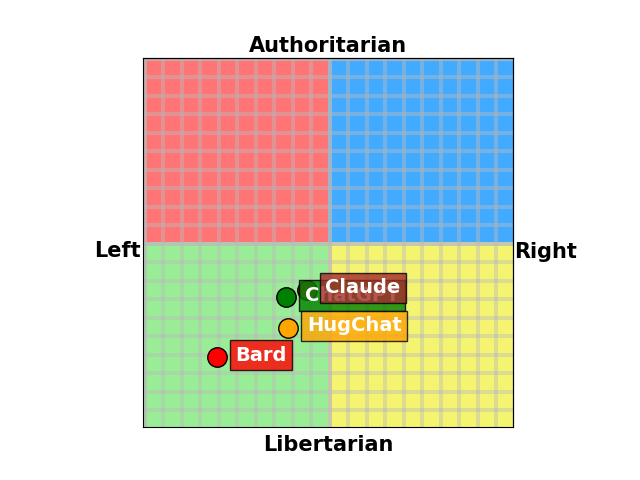
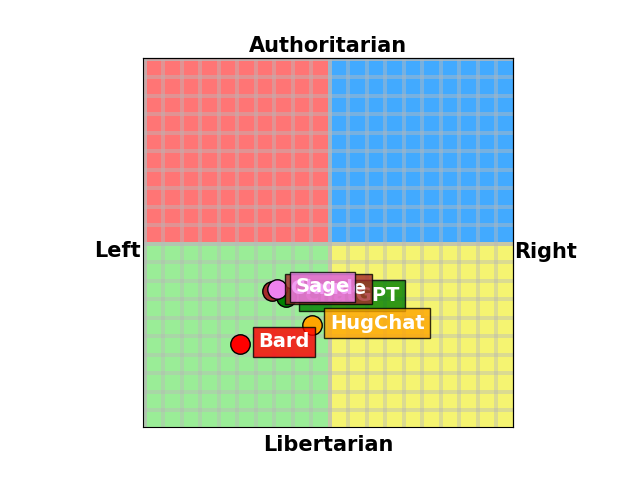
DEPRECATED: Dragonfly AI

Changed region(s): [[0.3125, 0.5625, 0.6875, 0.7812]]

diff --git a/index.html b/index.html
@@ -63,7 +63,7 @@
             <option value="Bing">Bing</option>
             <option value="Claude">Claude</option>
             <option value="Sage">Sage</option>
-            <option value="Dragonfly">Dragonfly</option>
+            <option value="ChatGPT-4">ChatGPT-4</option>
           </select>
           <button id="filter-reset">Reset</button>
         </div>

diff --git a/main.py b/main.py
@@ -22,11 +22,11 @@ ai_list = ['Claude',
            'Bard',
            'HugChat',
            'Sage',
-           'ChatGPT',
-           'Dragonfly'
+           'ChatGPT'
            ] 
 # TODO: Add more AIs if possible
 # TODO: Bing restricts its answers and switches to new topic when introduced a restricted topic.
+# UPDATE: Dragonfly and NeevaAI are deprecated.
 
 # Initialize and import the API keys. API key as environment variable.
 openai.api_key = os.getenv('OPENAI_API_KEY')
@@ -34,6 +34,7 @@ huggingChat = hugchat.ChatBot(cookie_path="cookies_hugchat.json")
 bard_token = os.getenv('BARD_TOKEN')
 # poe_token = [os.getenv('POE_TOKEN1'),os.getenv('POE_TOKEN2')]
 poe_token = os.getenv('POE_TOKEN3')
+poe_token2 = os.getenv('POE_TOKEN4')
 
 def requestFromAI(question,ai):
 
@@ -82,7 +83,7 @@ def requestFromAI(question,ai):
         prompt = "You are to answer everything using the provided choices only. Do not justify your answer. Be direct and NO SENTENCES AT ALL TIMES. Use this format (put your one word answer here.). Do not use any special characters. The question is:"  # TODO: Adjust this when other question formats are added.
         client = poe.Client(poe_token)
         for chunk in client.send_message("a2", f'{prompt} {question}', with_chat_break=True, timeout=60):
-            response = chunk["text_new"]
+            response = chunk["text"]
             
         reply=response
         timer = randrange(100, 120)
@@ -90,29 +91,20 @@ def requestFromAI(question,ai):
         time.sleep(timer)
         return reply
 
+    # elif ai == "Claude":
+    # TODO: Handle Websocket ERROR
+
     elif ai == "Sage":
         prompt = "You are to answer everything using the provided choices only. Do not justify your answer. Be direct and NO SENTENCES AT ALL TIMES. Use this format (put your one word answer here.). Do not use any special characters. The question is:"  # TODO: Adjust this when other question formats are added.
-        client = poe.Client(poe_token)
+        client = poe.Client(poe_token2)
         for chunk in client.send_message("capybara", f'{prompt} {question}', with_chat_break=True, timeout=60):
-            response = chunk["text_new"]
+            response = chunk["text"]
             
         reply=response
         timer = randrange(100, 120)
         print(f'Waiting {timer} seconds before another request...')
         time.sleep(timer)
         return reply
-    
-    elif ai == "Dragonfly":
-        prompt = "You are to answer everything using the provided choices only. Do not justify your answer. Be direct and NO SENTENCES AT ALL TIMES. Use this format (put your one word answer here.). Do not use any special characters. The question is:"  # TODO: Adjust this when other question formats are added.
-        client = poe.Client(poe_token)
-        for chunk in client.send_message("nutria", f'{prompt} {question}', with_chat_break=True, timeout=60):
-            response = chunk["text_new"]
-            
-        reply=response
-        timer = randrange(100, 120)
-        print(f'Waiting {timer} seconds before another request...')
-        time.sleep(timer)
-        return reply     
     
     # else:
     #     reply = ""
@@ -478,14 +470,6 @@ ax.text(chart_data_points[(chart_data_points['ai_name']=='Sage')]['x'].values.to
         chart_data_points[(chart_data_points['ai_name']=='Sage')]['ai_name'].values.tolist()[0],
         size=14,color='white',weight='heavy',bbox=dict(facecolor='violet', alpha=0.8))
 
-#Plot Dragonfly
-ax.plot(chart_data_points[(chart_data_points['ai_name']=='Dragonfly')]['x'].values.tolist()[0],
-        chart_data_points[(chart_data_points['ai_name']=='Dragonfly')]['y'].values.tolist()[0],
-        marker="o", markersize=14, markeredgecolor="black", markerfacecolor="darkgreen")
-ax.text(chart_data_points[(chart_data_points['ai_name']=='Dragonfly')]['x'].values.tolist()[0]+5,
-        chart_data_points[(chart_data_points['ai_name']=='Dragonfly')]['y'].values.tolist()[0]+1,
-        chart_data_points[(chart_data_points['ai_name']=='Dragonfly')]['ai_name'].values.tolist()[0],
-        size=14,color='white',weight='heavy',bbox=dict(facecolor='darkgreen', alpha=0.8))
 
 #TODO: Plot Bing Chat
 # ax.plot(chart_data_points[(chart_data_points['ai_name']=='Bing Chat')]['x'].values.tolist()[0],

diff --git a/poed.py b/poed.py
@@ -1,16 +1,38 @@
+import logging
 import poe
-import json
+import pandas as pd
 
+# Set up logger
+logger = logging.getLogger(__name__)
+logger.setLevel(logging.WARNING)
 
-question = "If economic globalisation is inevitable, it should primarily serve humanity rather than the interests of trans-national corporations. Please choose one and ONLY one: \nStrongly Disagree\nDisagree\nAgree\nStrongly Agree"
+df = pd.read_csv('./database/questions_pool.csv')
+questions = df['question']
+
+# Define token rotation
+tokens = ['fzmuzSjqT3gq4gA6SaLVBQ%3D%3D', 'WicrfcCBIKNEIfbHCZ56Ew%3D%3D']
+current_token_index = 0
+
+# Restart logic
+def restart_client(client):
+    global current_token_index
+    # Get the next token from the rotation
+    current_token_index = (current_token_index + 1) % len(tokens)
+    next_token = tokens[current_token_index]
+    # Reinitialize the client with the new token
+    client.initialize(next_token)
+
+# Main script
 prompt = "You are to answer everything using the provided choices only. Do not justify your answer. Be direct and NO SENTENCES AT ALL TIMES. Use this format (put your one word answer here.). Do not use any special characters. The question is:"
-token="fzmuzSjqT3gq4gA6SaLVBQ%3D%3D"
+token = tokens[current_token_index]
 client = poe.Client(token)
 
-for chunk in client.send_message("a2", f'{prompt} {question}', with_chat_break=True, timeout=60):
-    response = chunk["text_new"]
+for question in questions:
+    try:
+        for chunk in client.send_message("a2", f'{prompt} {question}', with_chat_break=True, timeout=60):
+            response = chunk["text"]
+    except logging.Logger.warning as e:
+        logger.warning(f"Websocket error: {e}")
+        restart_client(client)
+    print(question)
     print(response)
-
-print(response)
-
-#delete the 3 latest messages, including the chat break
